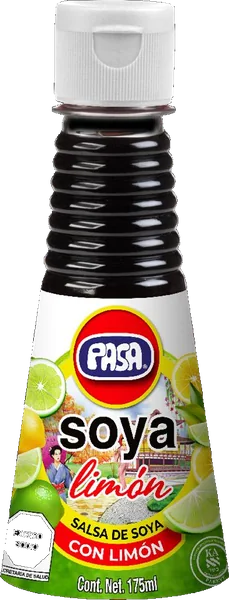
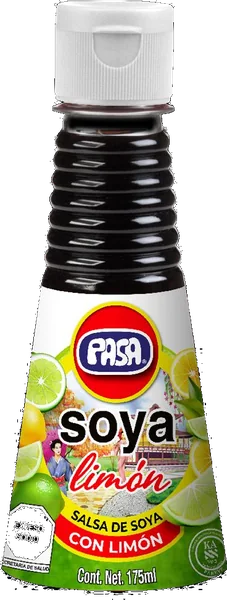
Actualización del sitio — 31/08/2026 20:06

diff --git a/productos.html b/productos.html
@@ -9,7 +9,7 @@
 <link rel="preconnect" href="https://fonts.googleapis.com" />
 <link rel="preconnect" href="https://fonts.gstatic.com" crossorigin />
 <link href="https://fonts.googleapis.com/css2?family=Karla:wght@400;600;700;800&family=Fraunces:ital,opsz,wght@0,9..144,600;0,9..144,800;0,9..144,900;1,9..144,700&display=swap" rel="stylesheet" />
-<link rel="stylesheet" href="styles.css?v=84" />
+<link rel="stylesheet" href="styles.css?v=85" />
 <style>
   /* ====== sub-nav sticky de categorías ====== */
   .catnav{position:sticky;top:var(--navh);z-index:80;background:rgba(250,247,240,.9);backdrop-filter:blur(14px);-webkit-backdrop-filter:blur(14px);border-bottom:1.5px solid var(--border)}
@@ -310,7 +310,7 @@
 
 <script src="https://cdn.jsdelivr.net/npm/gsap@3.12.5/dist/gsap.min.js"></script>
 <script src="https://cdn.jsdelivr.net/npm/gsap@3.12.5/dist/ScrollTrigger.min.js"></script>
-<script src="main.js?v=84"></script>
+<script src="main.js?v=85"></script>
 <script>
 /* =========================================================
    CATÁLOGO PASA — datos reales del sitio oficial
@@ -350,7 +350,7 @@ const CATALOGO = [
     sizes:['175 ml','250 ml','500 ml','1 L','3.85 L','20 L'],
     feats:['45% menos sal','Dietas bajas en sodio','Ensaladas y verduras al vapor'] },
   { cat:'soyas', tone:'#C9D6A8', chip:'Soya', name:'Soya Limón',
-    img:'assets/p-soya-limon.webp?r=1',
+    img:'assets/p-soya-limon.webp?r=2',
     desc:'Salsa de soya con el toque cítrico del limón. El equilibrio entre el umami de la soya y la frescura del limón, listo para usar.',
     sizes:['175 ml','250 ml','500 ml','1 L','3.85 L','20 L'],
     feats:['Mariscos y ceviches','Botanas y micheladas','Ensaladas y verduras'] },

diff --git a/nosotros.html b/nosotros.html
@@ -9,7 +9,7 @@
 <link rel="preconnect" href="https://fonts.googleapis.com" />
 <link rel="preconnect" href="https://fonts.gstatic.com" crossorigin />
 <link href="https://fonts.googleapis.com/css2?family=Karla:wght@400;600;700;800&family=Fraunces:ital,opsz,wght@0,9..144,600;0,9..144,800;0,9..144,900;1,9..144,700&display=swap" rel="stylesheet" />
-<link rel="stylesheet" href="styles.css?v=84" />
+<link rel="stylesheet" href="styles.css?v=85" />
 <style>
   .story{background:var(--crema)}
   .story-grid{display:grid;grid-template-columns:1.1fr 1fr;gap:clamp(2rem,5vw,4.5rem);align-items:center;position:relative;z-index:1}
@@ -248,6 +248,6 @@
 
 <script src="https://cdn.jsdelivr.net/npm/gsap@3.12.5/dist/gsap.min.js"></script>
 <script src="https://cdn.jsdelivr.net/npm/gsap@3.12.5/dist/ScrollTrigger.min.js"></script>
-<script src="main.js?v=84"></script>
+<script src="main.js?v=85"></script>
 </body>
 </html>

diff --git a/index.html b/index.html
@@ -13,7 +13,7 @@
 <link rel="preconnect" href="https://fonts.googleapis.com" />
 <link rel="preconnect" href="https://fonts.gstatic.com" crossorigin />
 <link href="https://fonts.googleapis.com/css2?family=Karla:wght@400;600;700;800&family=Fraunces:ital,opsz,wght@0,9..144,600;0,9..144,800;0,9..144,900;1,9..144,700&display=swap" rel="stylesheet" />
-<link rel="stylesheet" href="styles.css?v=84" />
+<link rel="stylesheet" href="styles.css?v=85" />
 <style>
   /* ===== HERO HOME ===== */
   /* fondo sobrio: crema cálido con un velo de arena.
@@ -416,7 +416,7 @@
 
 <script src="https://cdn.jsdelivr.net/npm/gsap@3.12.5/dist/gsap.min.js"></script>
 <script src="https://cdn.jsdelivr.net/npm/gsap@3.12.5/dist/ScrollTrigger.min.js"></script>
-<script src="main.js?v=84"></script>
+<script src="main.js?v=85"></script>
 <script>
 /* ================= QUIZ ¿QUÉ SABOR ERES? ================= */
 (function(){

diff --git a/contacto.html b/contacto.html
@@ -9,7 +9,7 @@
 <link rel="preconnect" href="https://fonts.googleapis.com" />
 <link rel="preconnect" href="https://fonts.gstatic.com" crossorigin />
 <link href="https://fonts.googleapis.com/css2?family=Karla:wght@400;600;700;800&family=Fraunces:ital,opsz,wght@0,9..144,600;0,9..144,800;0,9..144,900;1,9..144,700&display=swap" rel="stylesheet" />
-<link rel="stylesheet" href="styles.css?v=84" />
+<link rel="stylesheet" href="styles.css?v=85" />
 <style>
   .contact-sec{background:var(--crema)}
   .contact-info h2{font-size:clamp(1.9rem,3.8vw,2.7rem);margin:.9rem 0 1rem}
@@ -187,6 +187,6 @@
 
 <script src="https://cdn.jsdelivr.net/npm/gsap@3.12.5/dist/gsap.min.js"></script>
 <script src="https://cdn.jsdelivr.net/npm/gsap@3.12.5/dist/ScrollTrigger.min.js"></script>
-<script src="main.js?v=84"></script>
+<script src="main.js?v=85"></script>
 </body>
 </html>

diff --git a/recetas.html b/recetas.html
@@ -9,7 +9,7 @@
 <link rel="preconnect" href="https://fonts.googleapis.com" />
 <link rel="preconnect" href="https://fonts.gstatic.com" crossorigin />
 <link href="https://fonts.googleapis.com/css2?family=Karla:wght@400;600;700;800&family=Fraunces:ital,opsz,wght@0,9..144,600;0,9..144,800;0,9..144,900;1,9..144,700&display=swap" rel="stylesheet" />
-<link rel="stylesheet" href="styles.css?v=84" />
+<link rel="stylesheet" href="styles.css?v=85" />
 <style>
   /* cada receta en su propia franja, separadas por la misma onda del hero */
   .recipes{background:var(--crema)}
@@ -230,6 +230,6 @@
 
 <script src="https://cdn.jsdelivr.net/npm/gsap@3.12.5/dist/gsap.min.js"></script>
 <script src="https://cdn.jsdelivr.net/npm/gsap@3.12.5/dist/ScrollTrigger.min.js"></script>
-<script src="main.js?v=84"></script>
+<script src="main.js?v=85"></script>
 </body>
 </html>
